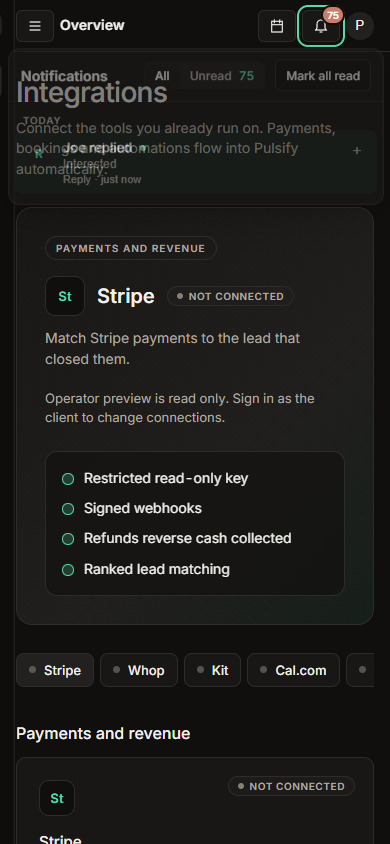
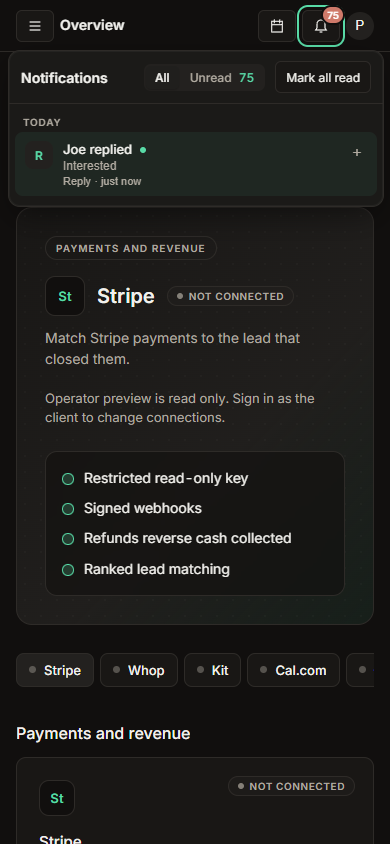
auto: checkpoint 2026-09-20 00:52:05

Changed region(s): [[0.0308, 0.0616, 0.9231, 0.2464], [0.4923, 0.0616, 0.5846, 0.1232], [0.6154, 0.0616, 0.6462, 0.0924]]

diff --git a/output/standard-preview/admin.html b/output/standard-preview/admin.html
@@ -1,3 +1,3 @@
 <!doctype html>
-<html lang="en"><head><meta charset="utf-8"><meta name="viewport" content="width=device-width,initial-scale=1"><title>Pulsify</title><script src="/shared/theme.js"></script><link rel="stylesheet" href="/shared/shell.css"><link rel="stylesheet" href="/admin/integrations-view.css"><style>body{margin:0}.ps-shell[hidden]{display:none!important}</style><link rel="stylesheet" href="/shared/surface.css"></head><body><div id="shell"></div><script src="/shared/shell.js"></script><script src="/shared/surface.js"></script><script src="/admin/native-dashboard.js"></script><script src="/admin/integrations-view.js"></script><script src="/admin/leads-view.js"></script><script src="/shared/realtime.js"></script><script src="/admin/outreach-view.js"></script><script src="/admin/search-view.js"></script><script src="/shared/settings-view.js"></script><script src="/shared/notifications.js"></script>
+<html lang="en"><head><meta charset="utf-8"><meta name="viewport" content="width=device-width,initial-scale=1"><title>Pulsify</title><script src="/shared/theme.js"></script><link rel="stylesheet" href="/shared/shell.css"><link rel="stylesheet" href="/shared/integrations-view.css"><style>body{margin:0}.ps-shell[hidden]{display:none!important}</style><link rel="stylesheet" href="/shared/surface.css"></head><body><div id="shell"></div><script src="/shared/shell.js"></script><script src="/shared/surface.js"></script><script src="/admin/native-dashboard.js"></script><script src="/shared/integrations-view.js"></script><script src="/admin/leads-view.js"></script><script src="/shared/realtime.js"></script><script src="/admin/outreach-view.js"></script><script src="/admin/search-view.js"></script><script src="/shared/settings-view.js"></script><script src="/shared/notifications.js"></script>
 <script src="/admin/phase1.js"></script></body></html>

diff --git a/output/standard-preview/admin/search-view.js b/output/standard-preview/admin/search-view.js
@@ -31,7 +31,9 @@
     if (ctx.q) { q.value = ctx.q; run(); }
     q.focus();
 
+    let sequence = 0;
     async function run() {
+      const current = ++sequence;
       const text = q.value.trim();
       if (text.length < 2) return;
       const kinds = [...root.querySelectorAll('input[name="kind"]:checked')].map((c) => c.value);
@@ -39,6 +41,7 @@
       root.querySelector("#sr-examples").hidden = true;
       try {
         const d = await api(`/api/search?q=${encodeURIComponent(text)}&kinds=${kinds.join(",")}&limit=20`);
+        if (current !== sequence || !root.isConnected) return;
         const dms = d.hits.filter((h) => h.kind === "dm"), brains = d.hits.filter((h) => h.kind === "brain");
         const group = (title, items, row) => items.length ? `<section class="sr-group"><h2>${esc(title)} <span>${items.length}</span></h2>${items.map(row).join("")}</section>` : "";
         results.innerHTML = d.hits.length
@@ -48,7 +51,7 @@
           : `<p class="int-empty">Nothing close to that yet. If the index is still filling in, try again in a minute.</p>`;
         results.querySelectorAll("[data-thread]").forEach((b) => (b.onclick = () => { sessionStorage.setItem("pulsify:open-thread", b.dataset.thread); window.PulsifyOperatorShell?.go("outreach"); }));
         results.querySelectorAll("[data-brain]").forEach((b) => (b.onclick = () => { sessionStorage.setItem("pulsify:brain-client", b.dataset.brain); window.PulsifyOperatorShell?.go("brain"); }));
-      } catch (e) { results.innerHTML = `<p class="int-empty">${esc(e.message)}</p>`; }
+      } catch (e) { if (current !== sequence || !root.isConnected) return; results.innerHTML = `<p class="int-empty">${esc(e.message)}</p>`; }
     }
   }
 

diff --git a/output/standard-preview/workers/sync/src/index.js b/output/standard-preview/workers/sync/src/index.js
@@ -25,16 +25,11 @@ const JOBS = {
 export default {
   async scheduled(controller, env, ctx) {
     if (env.SYNC_ENABLED !== "true") return;
-    const job = scheduledJob(controller.cron);
-    if (!job) return;
-    ctx.waitUntil(runJob(env, job, () => JOBS[job](env)));
-    if (controller.cron === "* * * * *") {
-      ctx.waitUntil(runJob(env, "webhook-outbox", () => sweepWebhooks(env)));
-      ctx.waitUntil(sweepSeen(env).catch(() => 0));
-      // Zernio sweep rides the same minute; it is a no-op until an account is connected.
-      ctx.waitUntil(runJob(env, "zernio-inbox", () => syncZernioInbox(env)));
-      ctx.waitUntil(runJob(env, "search-index", () => syncSearchIndex(env)));
+    for (const job of scheduledJobs(controller.cron, controller.scheduledTime)) {
+      ctx.waitUntil(runJob(env, job, () => JOBS[job](env)));
     }
+    if (controller.cron === "* * * * *") ctx.waitUntil(sweepSeen(env).catch(() => 0));
+
   },
 
   async fetch(request, env, ctx) {
@@ -79,6 +74,13 @@ export default {
     return new Response("Not found", { status: 404 });
   },
 };
+
+// Webhooks remain immediate. Polling is recovery, not the primary live path.
+export function scheduledJobs(cron, scheduledTime = Date.now()) {
+  if (cron !== "* * * * *") { const job = scheduledJob(cron); return job ? [job] : []; }
+  const minute = new Date(scheduledTime).getUTCMinutes();
+  return ["webhook-outbox", ...(minute % 5 === 0 ? ["instagram-inbox", "zernio-inbox"] : []), ...(minute % 15 === 0 ? ["search-index"] : [])];
+}
 
 export function scheduledJob(cron) {
   if (cron === "* * * * *") return "instagram-inbox";

diff --git a/output/standard-preview/portal/index.html b/output/standard-preview/portal/index.html
@@ -13,7 +13,7 @@
 <link rel="stylesheet" href="/portal/workspace-shell.css">
 <link rel="stylesheet" href="/shared/shell.css">
 <link rel="stylesheet" href="/portal/phase1.css">
-<link rel="stylesheet" href="/admin/integrations-view.css">
+<link rel="stylesheet" href="/shared/integrations-view.css">
 <link rel="stylesheet" href="/shared/surface.css"><style>
   .ps-boot{position:fixed;inset:0;z-index:2000;display:grid;grid-template-columns:254px 1fr;background:#0f0e0d;color:#f5f2ed;font-family:Inter,system-ui,sans-serif}.ps-boot~*:not(script){visibility:hidden!important}
   .ps-boot-side{border-right:1px solid #302d2a;padding:24px}.ps-boot-side strong{font-size:15px}.ps-boot-side i{display:block;width:76%;height:34px;margin-top:34px;border-radius:7px;background:#292624}
@@ -28,7 +28,7 @@
 <script defer src="/portal/workspace-content.js"></script>
 <script defer src="/portal/story-templates.js"></script>
 <script defer src="/portal/thumbnail-designer.js"></script>
-<script defer src="/admin/integrations-view.js"></script>
+<script defer src="/shared/integrations-view.js"></script>
 <script defer src="/shared/settings-view.js"></script>
 <script defer src="/shared/realtime.js"></script>
 <script defer src="/shared/notifications.js"></script>

diff --git a/output/standard-preview/admin/leads-view.js b/output/standard-preview/admin/leads-view.js
@@ -47,20 +47,25 @@
     const body = root.querySelector("#leads-body");
     let cache = { inbox: null, funnel: null };
 
+    let sequence = 0;
     async function load(force) {
+      const current = ++sequence;
       if (force) cache = { inbox: null, funnel: null };
       body.innerHTML = '<div class="skeleton" style="min-height:220px;border-radius:0"></div>';
       try {
         if (tab === "inbox") {
           if (!cache.inbox) cache.inbox = (await api("/api/spine/conversations")).conversations || [];
+          if (current !== sequence || !root.isConnected) return;
           drawInbox(cache.inbox);
         } else {
           if (!cache.funnel) cache.funnel = (await api("/api/pipeline")).contacts || [];
+          if (current !== sequence || !root.isConnected) return;
           drawFunnel(cache.funnel);
         }
         root.querySelector("#leads-n-inbox").textContent = cache.inbox ? cache.inbox.length : "";
         root.querySelector("#leads-n-funnel").textContent = cache.funnel ? cache.funnel.length : "";
       } catch (e) {
+        if (current !== sequence || !root.isConnected) return;
         body.innerHTML = `<p class="int-empty">${esc(e.message)}</p>`;
       }
     }

diff --git a/output/standard-preview/workers/sync/src/db.js b/output/standard-preview/workers/sync/src/db.js
@@ -17,7 +17,7 @@ export async function runJob(env, job, task) {
     await env.DB.prepare(
       "UPDATE sync_runs SET finished_at=?,status='error',error=? WHERE id=?",
     ).bind(new Date().toISOString(), message, id).run().catch(() => null);
-    await alertFailure(env, job, message);
+    // Diagnostics stay in sync_runs; technical failures never ping the founder.
     await emitEvent(env, { scope: "operator", event: "integration.sync_failed", data: { job, error: message } }).catch(() => null);
     throw error;
   }
@@ -38,13 +38,4 @@ export async function insertMetric(env, { scope = "operator", clientId = "", sou
       (scope,client_id,source,metric,ts,value,value_text,dims_json)
      VALUES(?,?,?,?,?,?,?,?)`,
   ).bind(scope, clientId, source, metric, ts, value, valueText, JSON.stringify(dims || {})).run();
-}
-
-async function alertFailure(env, job, error) {
-  if (!env.DISCORD_WEBHOOK_URL) return;
-  await fetch(env.DISCORD_WEBHOOK_URL, {
-    method: "POST",
-    headers: { "content-type": "application/json" },
-    body: JSON.stringify({ content: `Pulsify sync failed: ${job}\n${error}`.slice(0, 1900) }),
-  }).catch(() => null);
 }

diff --git a/output/standard-preview/shared/notifications.js b/output/standard-preview/shared/notifications.js
@@ -194,7 +194,7 @@
 
     load();
     const unsubscribe = window.PulsifyRealtime?.on("notification", () => load());
-    const timer = setInterval(() => { if (document.visibilityState === "visible") load(); }, 30000);
+    const timer = setInterval(() => { if (document.visibilityState === "visible") load(); }, 120000);
     const onVisible = () => { if (document.visibilityState === "visible") load(); };
     document.addEventListener("visibilitychange", onVisible);
     const api = { load, open: openPanel, close, destroy() { destroyed = true; close(); clearInterval(timer); unsubscribe?.(); document.removeEventListener("visibilitychange", onVisible); button.onclick = null; badge.remove(); delete button._pulsifyBell; delete button.dataset.bell; } };

diff --git a/output/standard-preview/admin/outreach-view.js b/output/standard-preview/admin/outreach-view.js
@@ -181,7 +181,7 @@
       paint();
     }
     // Timers tick without a network call; data refreshes each minute while the view is on screen.
-    timer = setInterval(() => { if (!root.isConnected) { dispose(); return; } if (document.visibilityState === "visible") load(); }, 60000);
+    timer = setInterval(() => { if (!root.isConnected) { dispose(); return; } if (document.visibilityState === "visible") load(); }, 300000);
     function dispose() { disposed = true; clearInterval(timer); clearTimeout(debounce); clearTimeout(pending); unsubscribe?.(); if (paint) document.removeEventListener("pulsify:realtime", paint); }
     return dispose;
   }

diff --git a/output/standard-preview/functions/_shared/search.js b/output/standard-preview/functions/_shared/search.js
@@ -92,6 +92,7 @@ export async function indexPending(env) {
   if (upserts.length) await env.VECTORIZE.upsert(upserts);
   for (let i = 0; i < docs.length; i += 1) {
     const d = docs[i];
+    if (!upserts.some(vector => vector.id === d.id)) continue;
     await env.DB.prepare(
       "INSERT INTO search_index_state (doc_id, kind, scope, content_hash, indexed_at, source_id) VALUES (?,?,?,?,?,?) ON CONFLICT(doc_id) DO UPDATE SET content_hash=excluded.content_hash, indexed_at=excluded.indexed_at, source_id=excluded.source_id",
     ).bind(d.id, d.kind, d.scope, d.hash || (await sha256Hex(d.text)), now, d.source).run();

diff --git a/output/standard-preview/admin/native-dashboard.js b/output/standard-preview/admin/native-dashboard.js
@@ -2,6 +2,7 @@
  let loading,root,requested='live',header;
  const aliases={youtube:'metrics',dashboard:'live',payments:'sales'};
  function activate(){
+  if(!root||root.hidden||!header)return;
   const id=aliases[requested]||requested;
   root.querySelector('nav.sb-nav [data-tab="'+CSS.escape(id)+'"]')?.click();
   root.classList.toggle('theme-night',document.documentElement.dataset.theme==='dark');
